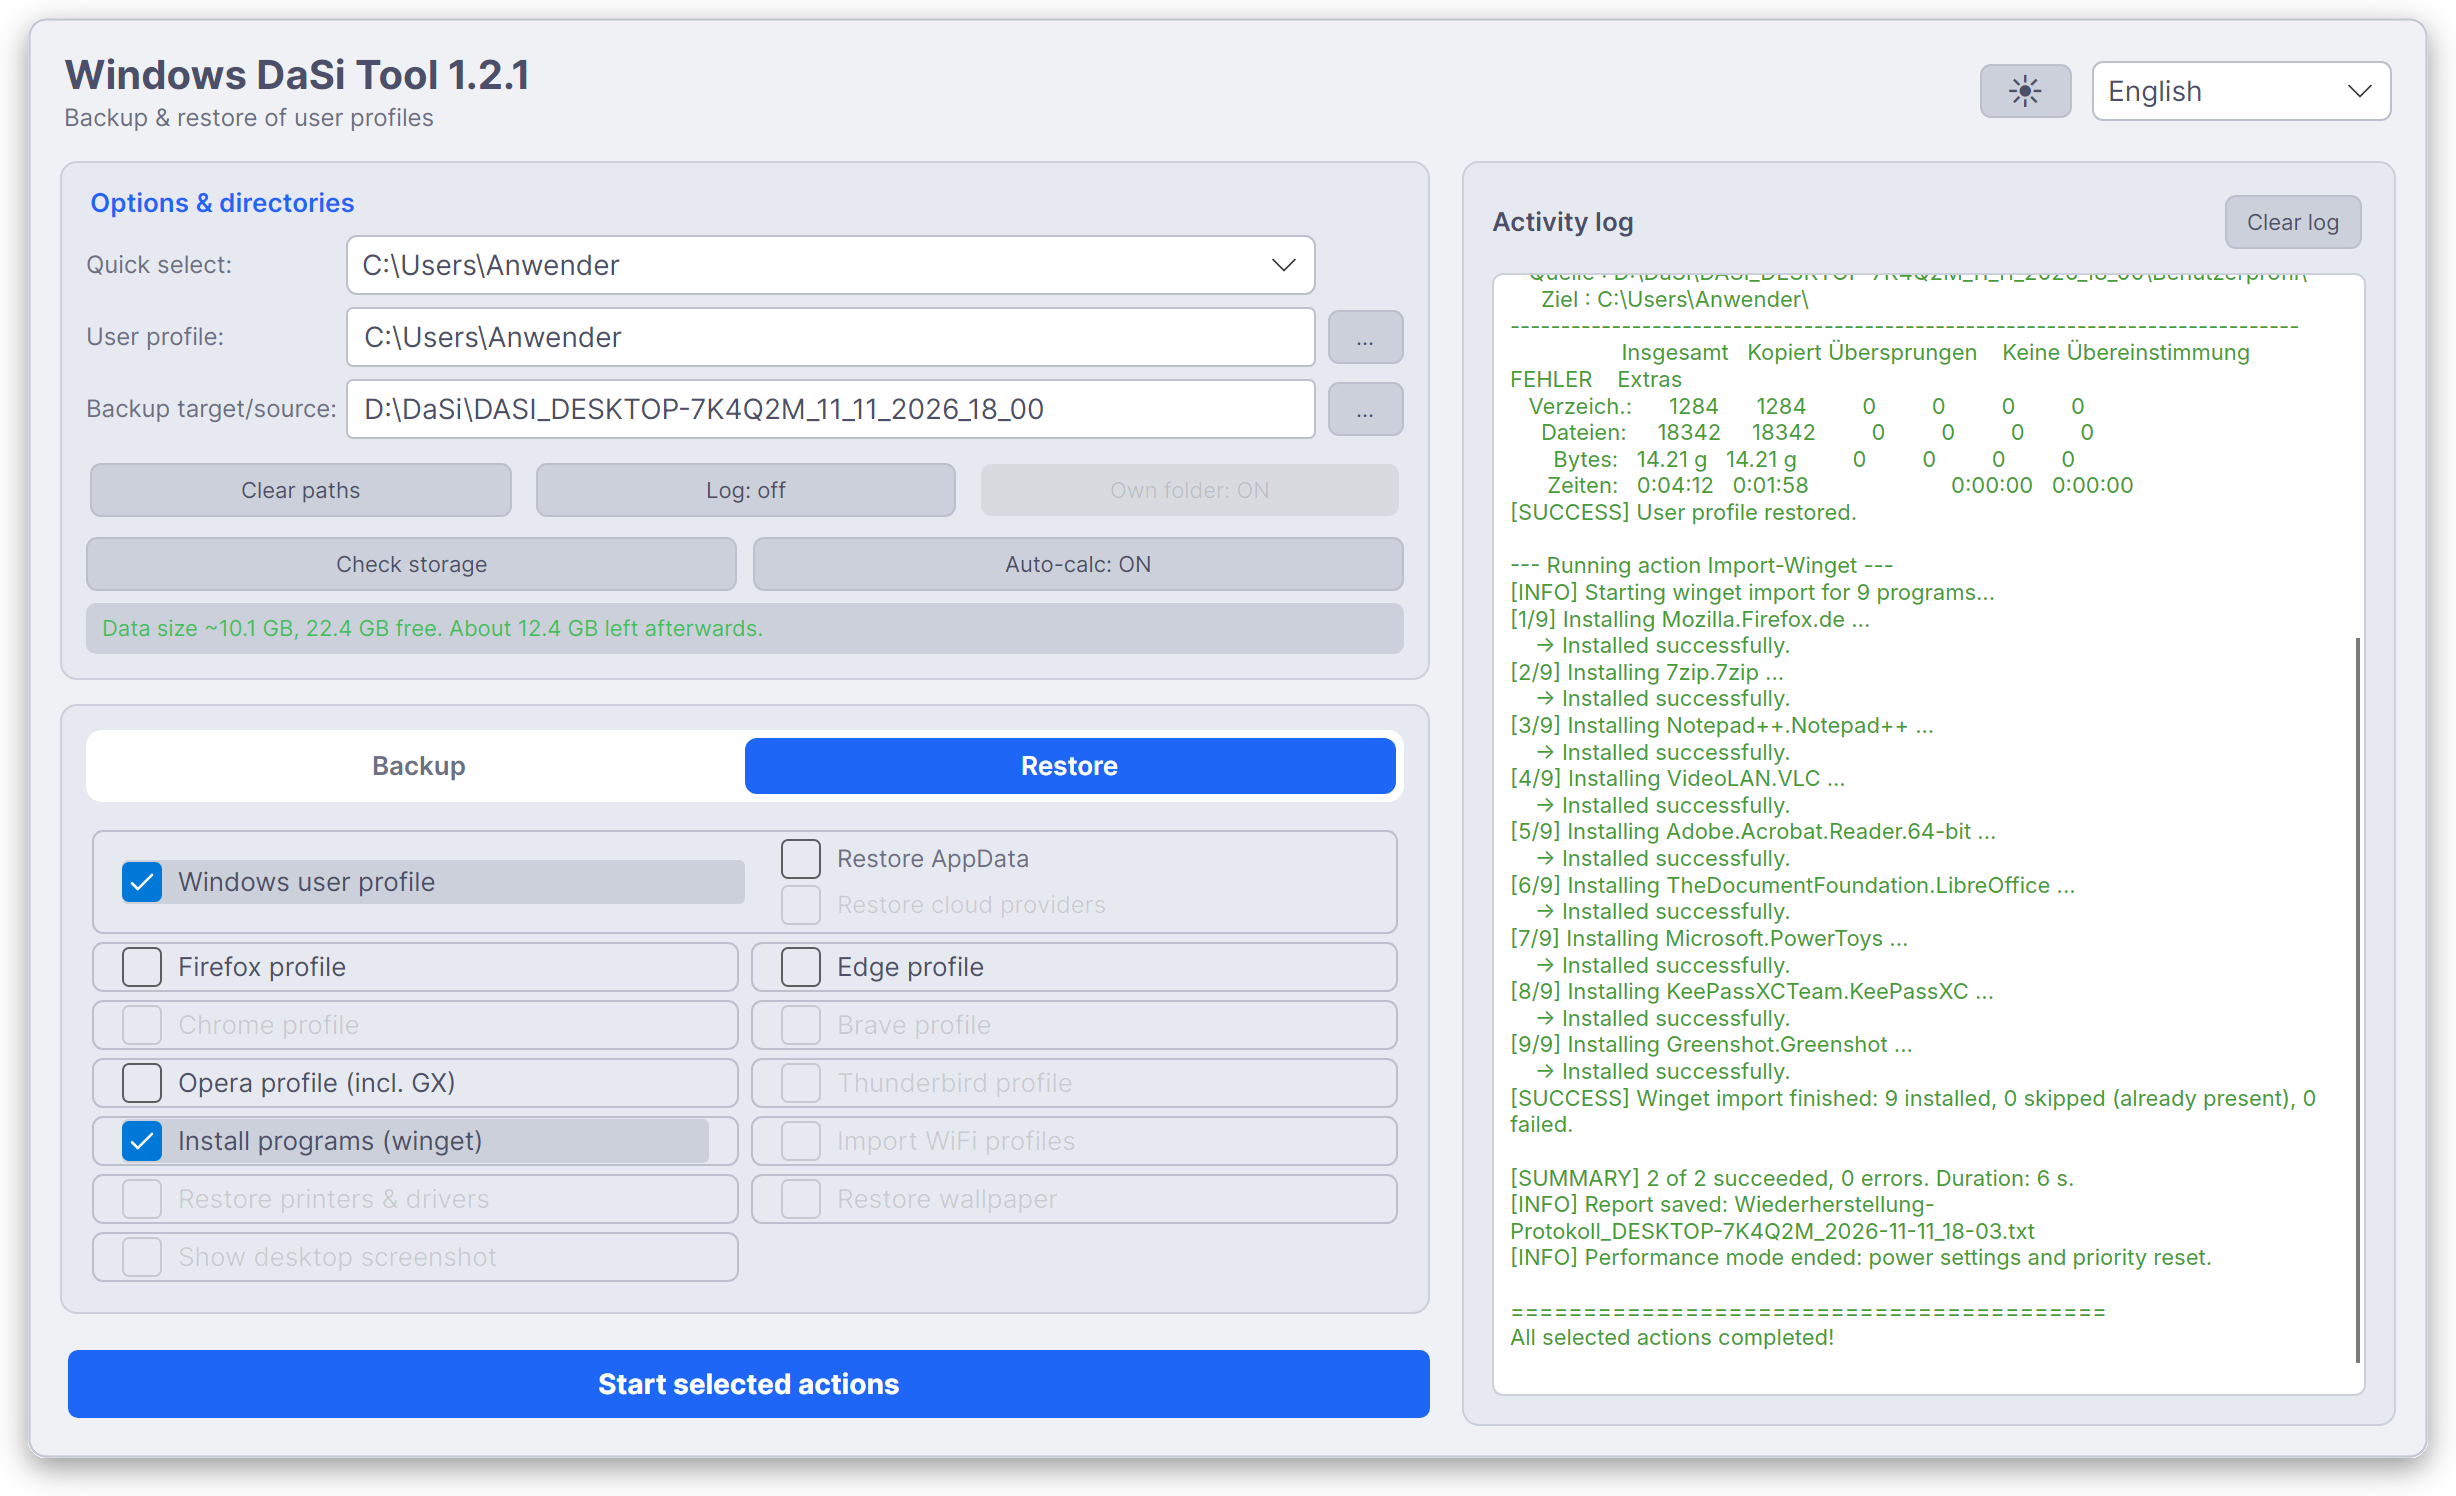
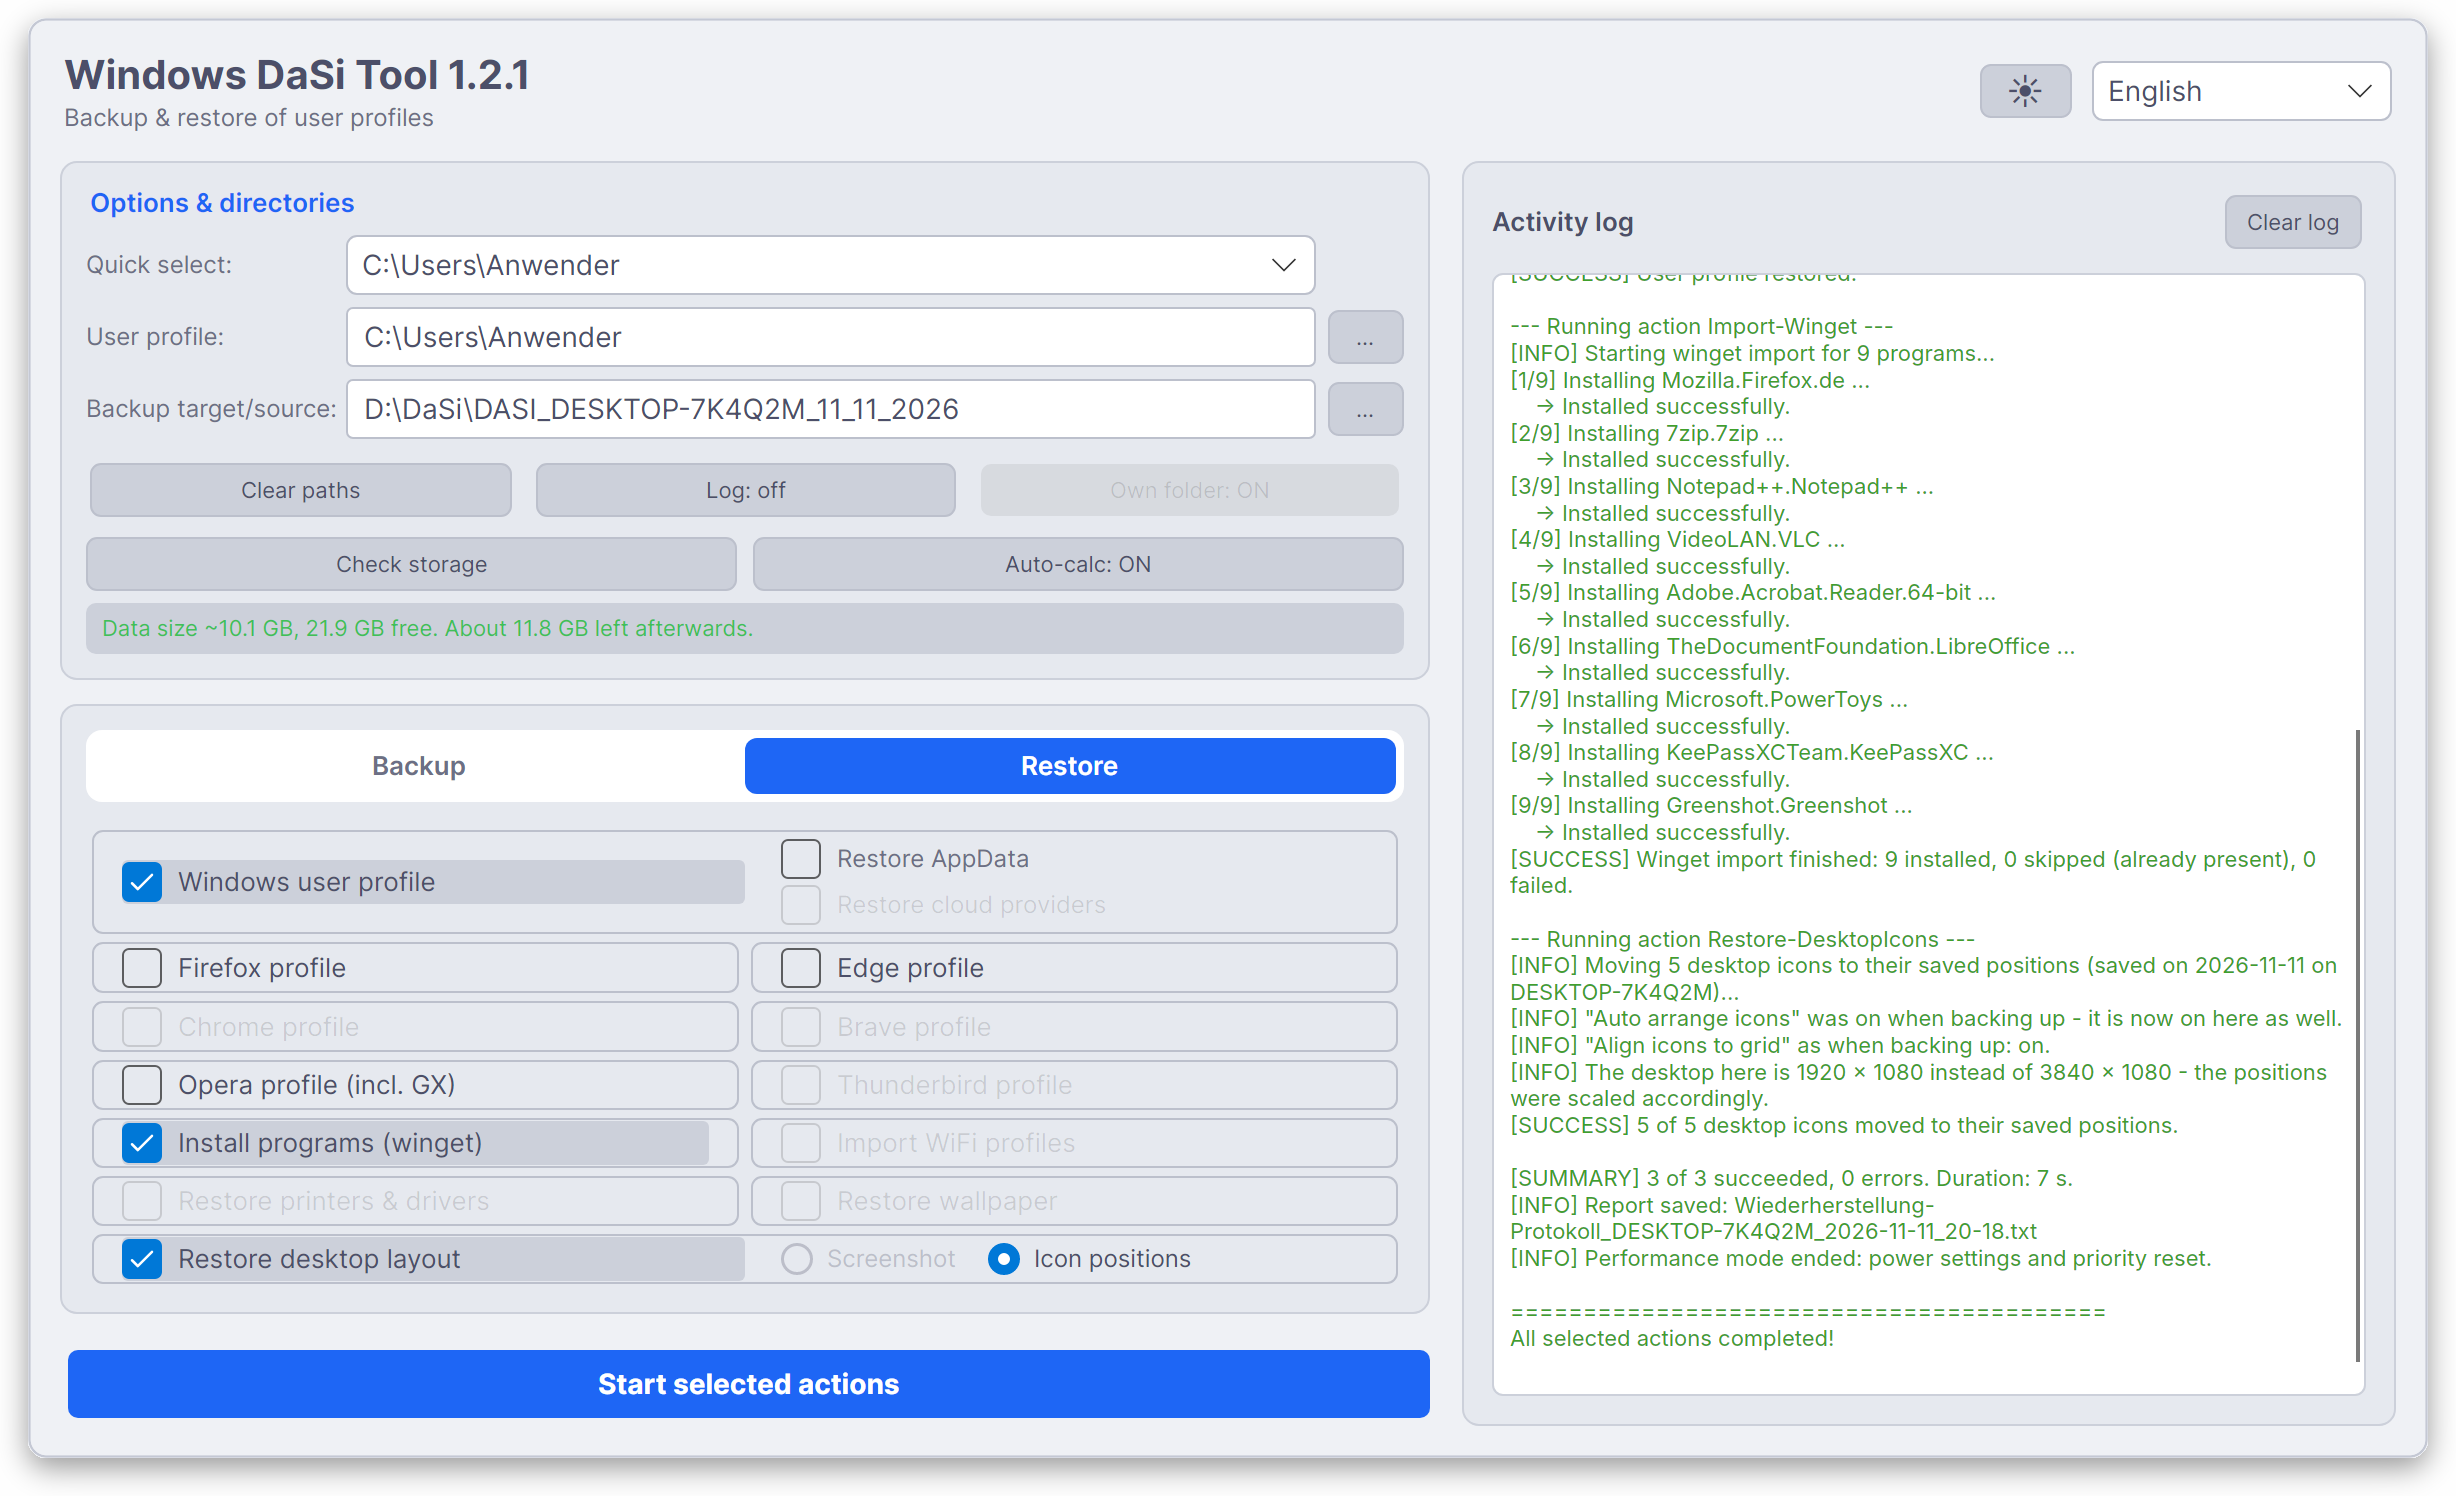
README-Bilder: Desktop-Layout-Kachel, Ordner nur mit Datum
Hauptfenster, Modus-Umschalter und helles/englisches Bild neu
aufgenommen: Desktop-Layout ueber volle Breite mit Auswahl
Screenshot/Symbolpositionen, Zielordner DASI_<Rechner>_TT_MM_JJJJ,
beim Wiederherstellen ist "Screenshot" grau, wenn die Sicherung nur
Symbolpositionen enthaelt.

Claude-Session: https://claude.ai/code/session_0196PaXCKSmKiwGSNr3Nwqvz

diff --git a/README.md b/README.md
@@ -70,7 +70,8 @@ Punkte, die nichts zu tun hätten, sind **ausgegraut** und lassen sich nicht ank
   eingerichtet ist, also kein Profil hat. Oben im Bild: Brave.
 - **Wiederherstellen:** Jeder Punkt ist gesperrt, den die gewählte Sicherung nicht
   enthält. Unten im Bild: Gesichert wurden Profil samt AppData, Firefox, Edge,
-  Opera und die Programmliste, alles andere ist grau.
+  Opera, die Programmliste und die Symbolpositionen des Desktops. Alles andere ist
+  grau, auch die Auswahl *Screenshot*.
 
 Fährt man mit der Maus über einen grauen Punkt, nennt der Tooltip den Grund, etwa
 *Chrome ist bei diesem Benutzer nicht eingerichtet - kein Profil unter …* oder *Die
